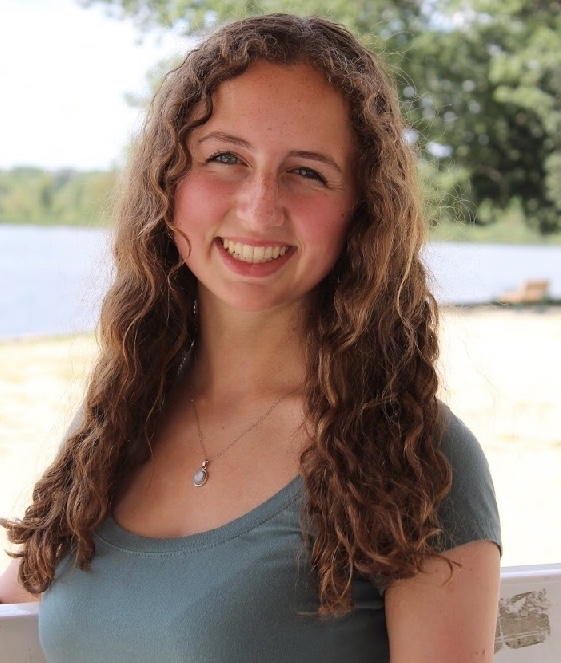
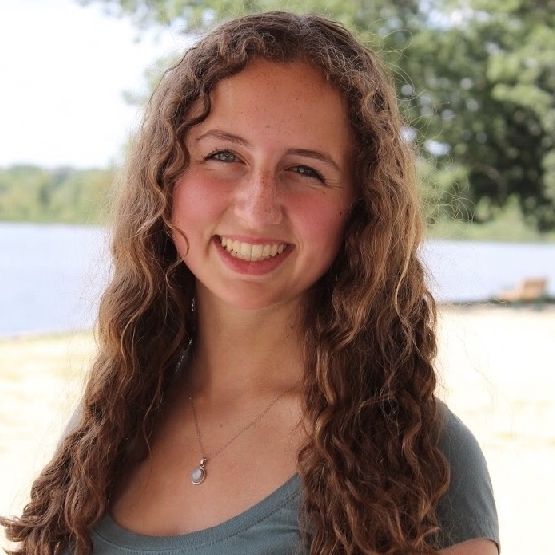
Updated About Us photos and created footer

diff --git a/frontend/src/components/pages/Home.js b/frontend/src/components/pages/Home.js
@@ -2,6 +2,7 @@ import React, { useState } from 'react';
 import { Row, Col, Tabs } from 'antd';
 import ResultsTable from '../ResultsTable';
 import SearchCard from '../Home/SearchCard';
+import Footer from '../Footer';
 import './Home.css';
 
 const { TabPane } = Tabs;
@@ -36,6 +37,11 @@ function Home() {
                         </Tabs>
                     </Col>
                 </Row>
+                <Row>
+                    <Col span={24}>
+                        <Footer />
+                    </Col>
+                </Row>
             </>
         );
     }
@@ -67,28 +73,14 @@ function Home() {
                         <ResultsTable results={results}/>
                     </Col>
                 </Row>
+                <Row>
+                    <Col span={24}>
+                        <Footer />
+                    </Col>
+                </Row>
             </>
         );
     }
-  return (
-    <>
-        <Row justify="center">
-            <Col span={18}>
-                <Tabs defaultActiveKey="1" centered>
-                    <TabPane tab="Search by Fraternity/Sorority" key="1">
-                        <SearchCard results={results} setSearchResults={setSearchResults} type={"greek"}/>
-                    </TabPane>
-                    <TabPane tab="Search by Varsity/Club Sport" key="2">
-                        <SearchCard results={results} type={"sports"}/>
-                    </TabPane>
-                    <TabPane tab="Search by Club" key="3">
-                        <SearchCard results={results} type={"clubs"}/>
-                    </TabPane>
-                </Tabs>
-            </Col>
-        </Row>
-    </>
-  );
 }
 
 export default Home;

diff --git a/frontend/src/components/pages/AboutUs.js b/frontend/src/components/pages/AboutUs.js
@@ -2,6 +2,7 @@ import React from 'react';
 import { Row, Col } from 'antd';
 import './AboutUs.css';
 import ProfileCard from '../AboutUs/ProfileCard';
+import Footer from '../Footer';
 
 function AboutUs() {
     var paragraph = "Joining a fraternity or sorority can be a great way to meet people and make lots of friends for incoming students, but with so many choices, it can be stressful to choose just one. Typically, students feel comfortable around kids that play or like similar sports to them, which can be a great start to finding new friends. We built Greek Sports to allow students to do just that: find Greek life that fits them, and later, find sports and clubs that their greek organization is involved in to further connect with other members.";
@@ -17,7 +18,7 @@ function AboutUs() {
             </Row>
             <Row>
                 <Col span={4}>
-                    <ProfileCard name="Chyna Cobbs" end={endb} year={year} src="https://os.alipayobjects.com/rmsportal/QBnOOoLaAfKPirc.png"/>
+                    <ProfileCard name="Chyna Cobbs" end={endb} year={year} src="./ChynaCobbs.png"/>
                 </Col>
                 <Col span={4}>
                     <ProfileCard name="Jessica Coco" end={endb} year={year} src="./JessicaCoco.jpg"/>
@@ -43,6 +44,11 @@ function AboutUs() {
             <Row>
                 <Col span={24}>
                     <p>{paragraph}</p>
+                </Col>
+            </Row>
+            <Row>
+                <Col span={24}>
+                    <Footer />
                 </Col>
             </Row>
         </>

diff --git a/frontend/src/components/pages/ContactUs.js b/frontend/src/components/pages/ContactUs.js
@@ -1,6 +1,7 @@
 import React from 'react';
 import { Row, Col } from 'antd';
 import ContactUsForm from '../ContactUs/ContactUsForm';
+import Footer from '../Footer';
 import './ContactUs.css';
 
 const style = {background: '#0092ff'};
@@ -25,6 +26,11 @@ function ContactUs() {
                 </div>
             </Col>
             <Col span={4}></Col>
+        </Row>
+        <Row>
+            <Col span={24}>
+                <Footer />
+            </Col>
         </Row>
         </>
     );

diff --git a/frontend/src/components/Footer.css b/frontend/src/components/Footer.css
@@ -1,0 +1,20 @@
+@import '~antd/dist/antd.css';
+
+.footer {
+    background-color: #2a2a2a;
+    height: 80px;
+    width: 100%;
+    text-align: center;
+    font-size: 1.2rem;
+    list-style-type: none;
+    position: fixed;
+    bottom: 0;
+}
+
+.footer-text {
+    color: gray;
+    font-size: 0.9rem;
+    position: fixed;
+    bottom: 30px;
+    width: 100%;
+}

diff --git a/frontend/src/components/Footer.js b/frontend/src/components/Footer.js
@@ -1,0 +1,16 @@
+import React from 'react';
+import './Footer.css';
+
+function Footer() {
+    return (
+        <>
+        <div class="footer">
+            <div class="footer-text">
+                © Greek Sports 2021
+            </div>
+        </div>
+        </>
+    );
+}
+
+export default Footer;
